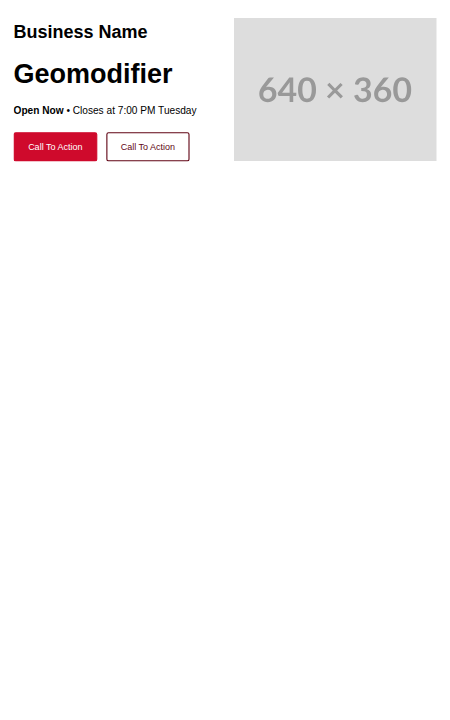
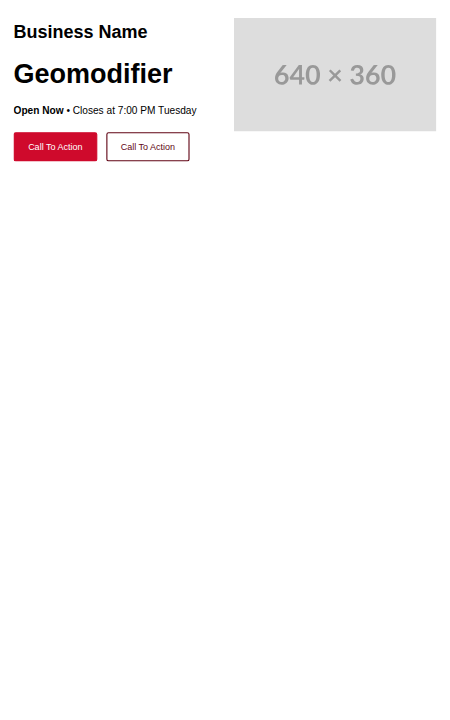
fix: images in Grid would stretch to fit the container (#1204)
Before:
<img width="671" height="331" alt="Screenshot 2026-05-05 at 4 11 15 PM"
src="https://github.com/user-attachments/assets/05196088-08b8-4e7f-a8ed-7c6c012a950c"
/>

After:
<img width="668" height="286" alt="Screenshot 2026-05-05 at 4 13 05 PM"
src="https://github.com/user-attachments/assets/f3d4c1e1-5286-4582-ac9d-41fddf57b1c2"
/>

(ignore the font changing)

---------

Changed region(s): [[0.4978, 0.1833, 0.9956, 0.2444], [0.56, 0.0917, 0.9333, 0.1528]]

diff --git a/packages/visual-editor/src/components/layoutBlocks/Grid.test.tsx b/packages/visual-editor/src/components/layoutBlocks/Grid.test.tsx
@@ -2235,7 +2235,74 @@ const tests: ComponentTest[] = [
       analytics: { scope: "gridSection" },
       align: "left",
     },
-    version: migrationRegistry.length,
+    version: 74,
+  },
+  {
+    name: "version 75 - image does not stretch with taller sibling column",
+    document: {
+      address: testAddress,
+      id: "test-id",
+      name: "Galaxy Grill",
+    },
+    props: {
+      columns: 2,
+      slots: [
+        {
+          Column: [
+            {
+              type: "BodyText",
+              props: {
+                id: "BodyText-grid-image-stretch-regression",
+                data: {
+                  text: {
+                    field: "",
+                    constantValue: {
+                      en: {
+                        html: rtfHtml,
+                      },
+                      hasLocalizedValue: "true",
+                    },
+                    constantValueEnabled: true,
+                  },
+                },
+                styles: { variant: "base" },
+              },
+            },
+          ],
+        },
+        {
+          Column: [
+            {
+              type: "ImageWrapper",
+              props: {
+                id: "ImageWrapper-grid-image-stretch-regression",
+                data: {
+                  image: {
+                    field: "",
+                    constantValue: {
+                      url: "https://placehold.co/640x360",
+                      height: 360,
+                      width: 640,
+                    },
+                    constantValueEnabled: true,
+                  },
+                  link: { defaultValue: "#" },
+                },
+                styles: {
+                  aspectRatio: 1.78,
+                  width: 640,
+                },
+              },
+            },
+          ],
+        },
+        { Column: [] },
+      ],
+      backgroundColor: backgroundColors.background1.value,
+      liveVisibility: true,
+      analytics: { scope: "gridSection" },
+    },
+    version: 75,
   },
 ];
 

diff --git a/packages/visual-editor/src/components/contentBlocks/image/Image.tsx b/packages/visual-editor/src/components/contentBlocks/image/Image.tsx
@@ -192,7 +192,7 @@ const ImageWrapperComponent: PuckComponent<ImageWrapperProps> = (props) => {
       fullHeight
       ref={puck.dragRef}
     >
-      <div className="w-full h-full">
+      <div className="w-full">
         <MaybeLink
           className="w-auto"
           eventName="logoLink"
@@ -209,7 +209,7 @@ const ImageWrapperComponent: PuckComponent<ImageWrapperProps> = (props) => {
                 : styles.width
             }
             className={
-              className || "max-w-full rounded-image-borderRadius w-full h-full"
+              className || "max-w-full rounded-image-borderRadius w-full"
             }
             sizes={transformedSizes}
           />
